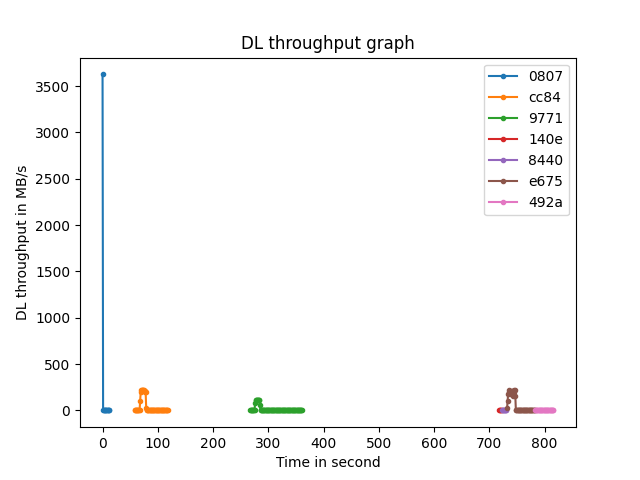
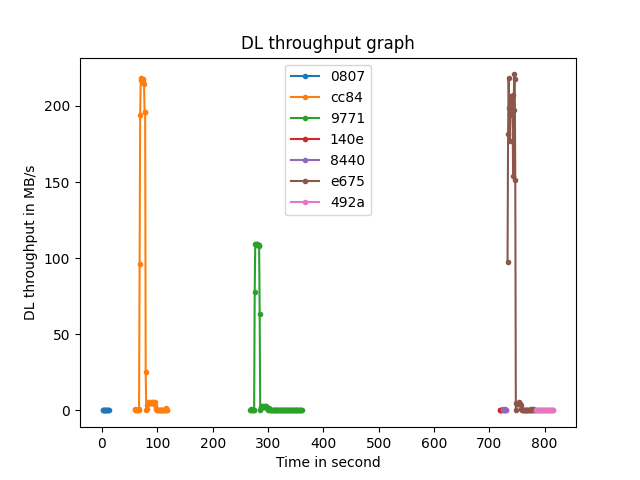
ul and dl graph improved

diff --git a/src/create_graph.py b/src/create_graph.py
@@ -54,6 +54,11 @@ def dl_throughput_graph(data_sorted, min_timestamp, user_options):
                 previous_dl = int(packet[6])
                 continue
 
+            #Just to avoid big spike at start
+            if(previous_dl == 0):
+                previous_dl = int(packet[6])
+                continue
+
             timestamp_list.append(timestamp)
 
             #we want MB/s
@@ -103,6 +108,11 @@ def ul_throughput_graph(data_sorted,min_timestamp,user_options):
 
             #we match time option filter of the user
             if(timestamp < user_options.start or timestamp > user_options.end):
+                previous_ul = int(packet[9])
+                continue
+
+            #Just to avoid big spike at start
+            if(previous_ul == 0):
                 previous_ul = int(packet[9])
                 continue
 
